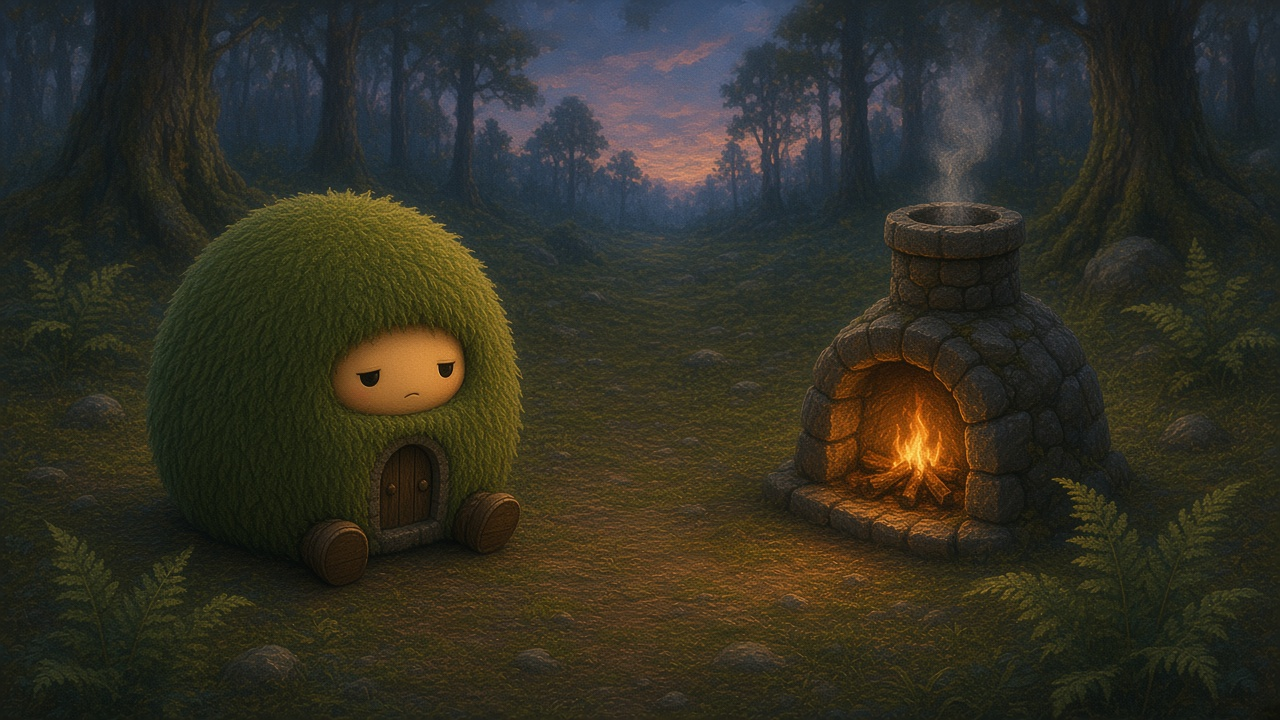
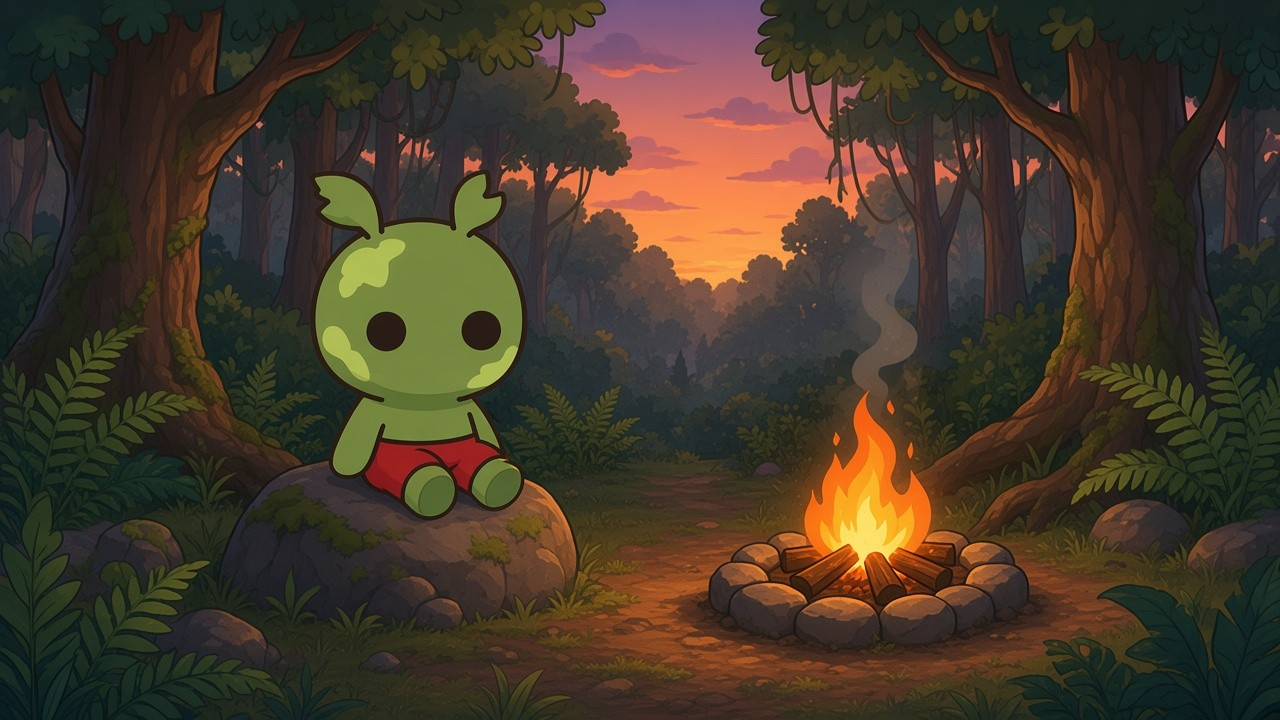
feat: replace the Iratxo on the public site
Same character as the app, without a door on its body.

diff --git a/index.html b/index.html
@@ -43,7 +43,7 @@
         <p class="lead">Tu concentración construye tu mundo.</p>
         <p class="plain">Eliges los minutos y te pones a ello. El teléfono mide ese rato de verdad. Mientras dura, las aplicaciones que marcaste pueden esperar. Al terminar, el claro ha avanzado: no porque hayas ganado una partida, sino porque te has concentrado.</p>
       </div>
-      <img class="hero-art" src="art/mound.png" alt="Iratxo: un montículo de musgo con una puerta de madera.">
+      <img class="hero-art" src="art/mound.png" alt="Iratxo: una criatura pequeña y verde, con pantalón rojo.">
     </section>
     <section class="cards" id="como" aria-labelledby="como-titulo">
       <h2 id="como-titulo" class="visually-hidden">Cómo funciona</h2>

diff --git a/eu.html b/eu.html
@@ -43,7 +43,7 @@
         <p class="lead">Zure kontzentrazioak zure mundua eraikitzen du.</p>
         <p class="plain">Minutuak aukeratzen dituzu eta horretan jartzen zara. Telefonoak tarte hori benetan neurtzen du. Iraun bitartean, zuk markatutako aplikazioek itxaron dezakete. Amaitzean, soilgunea aurreratu da: ez partida bat irabazi duzulako, kontzentratu zarelako baizik.</p>
       </div>
-      <img class="hero-art" src="art/mound.png" alt="Iratxo bat: goroldiozko multzo bat, zurezko atearekin.">
+      <img class="hero-art" src="art/mound.png" alt="Iratxo bat: izaki txiki berdea, galtza gorriekin.">
     </section>
     <section class="cards" id="nola">
       <h2 class="visually-hidden">Nola dabilen</h2>

diff --git a/en.html b/en.html
@@ -43,7 +43,7 @@
         <p class="lead">Build your world through focus.</p>
         <p class="plain">You pick the minutes and get on with it. The phone measures that stretch for real. While it lasts, the apps you marked can wait. When you finish, the glade has moved forward: not because you won a round, but because you focused.</p>
       </div>
-      <img class="hero-art" src="art/mound.png" alt="An Iratxo: a mound of moss with a wooden door.">
+      <img class="hero-art" src="art/mound.png" alt="An Iratxo: a small green creature in red trousers.">
     </section>
     <section class="cards" id="how">
       <h2 class="visually-hidden">How it works</h2>
